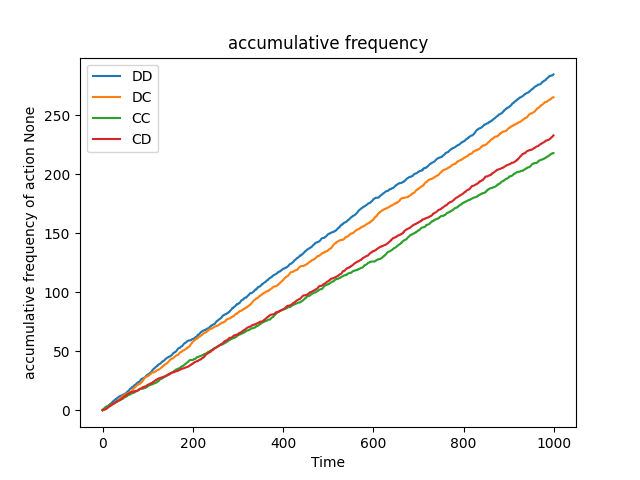
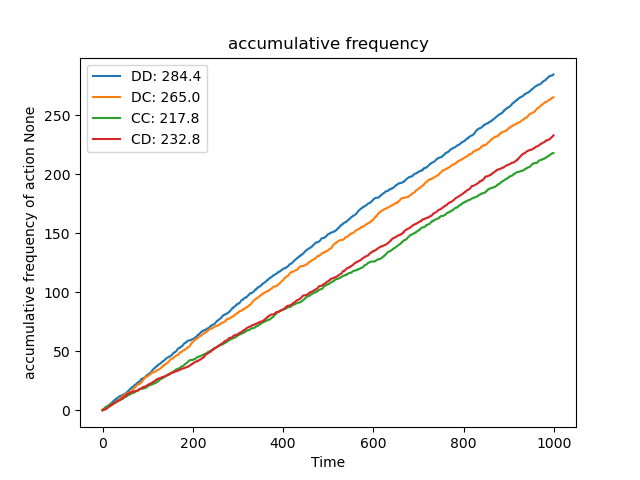
update result pics

diff --git a/utils.py b/utils.py
@@ -511,5 +511,5 @@ if __name__ == "__main__":
     #     "loggings.pt"
     # )  # this is from the two_player_game.py, we save the evaluation results in this file
     plot_action_accumulative_frequency(
-        "agents_loggings/two_agent_simple_mediator_loggings_eval.pt", plot_bounds=False
+        "agents_loggings/two_agent_no_mediator_loggings_eval.pt", plot_bounds=False
     )
